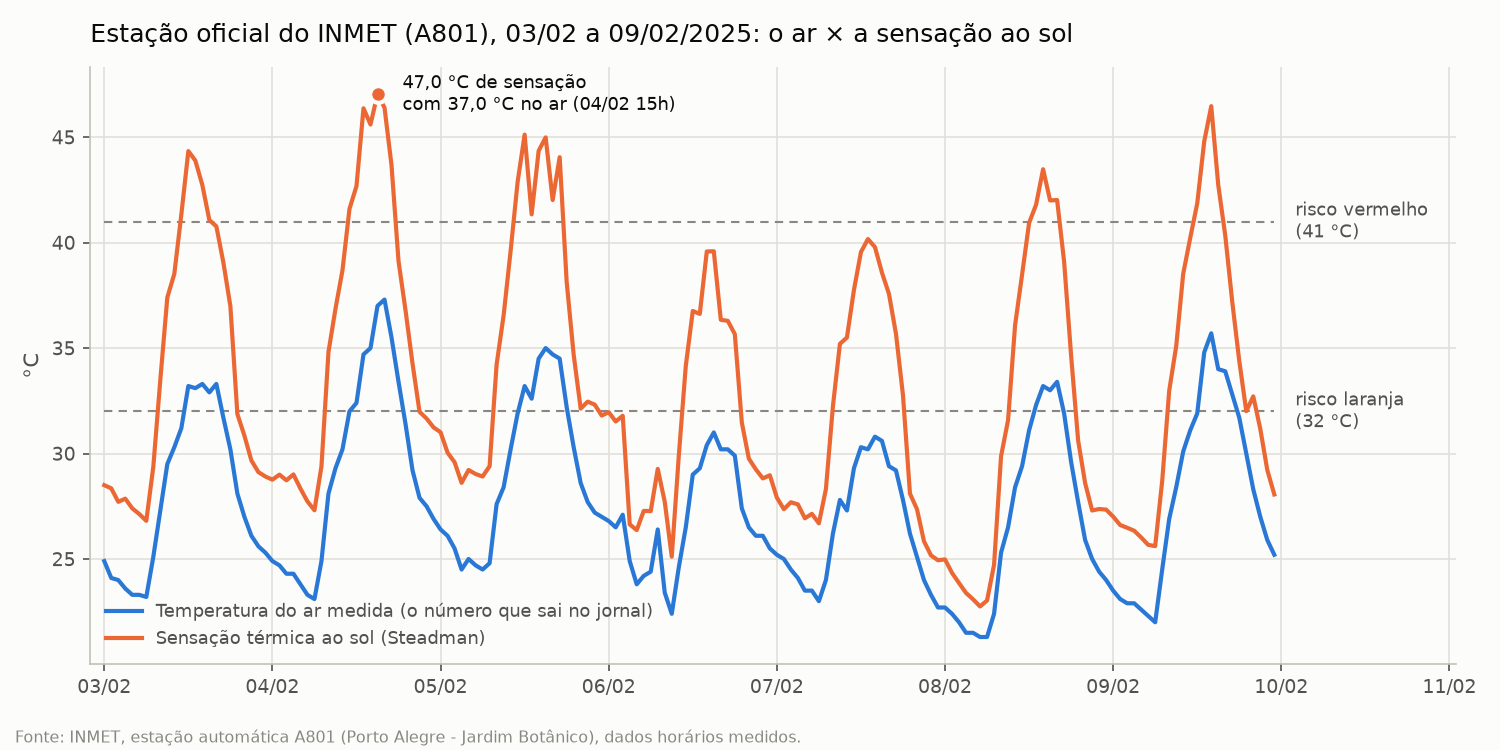
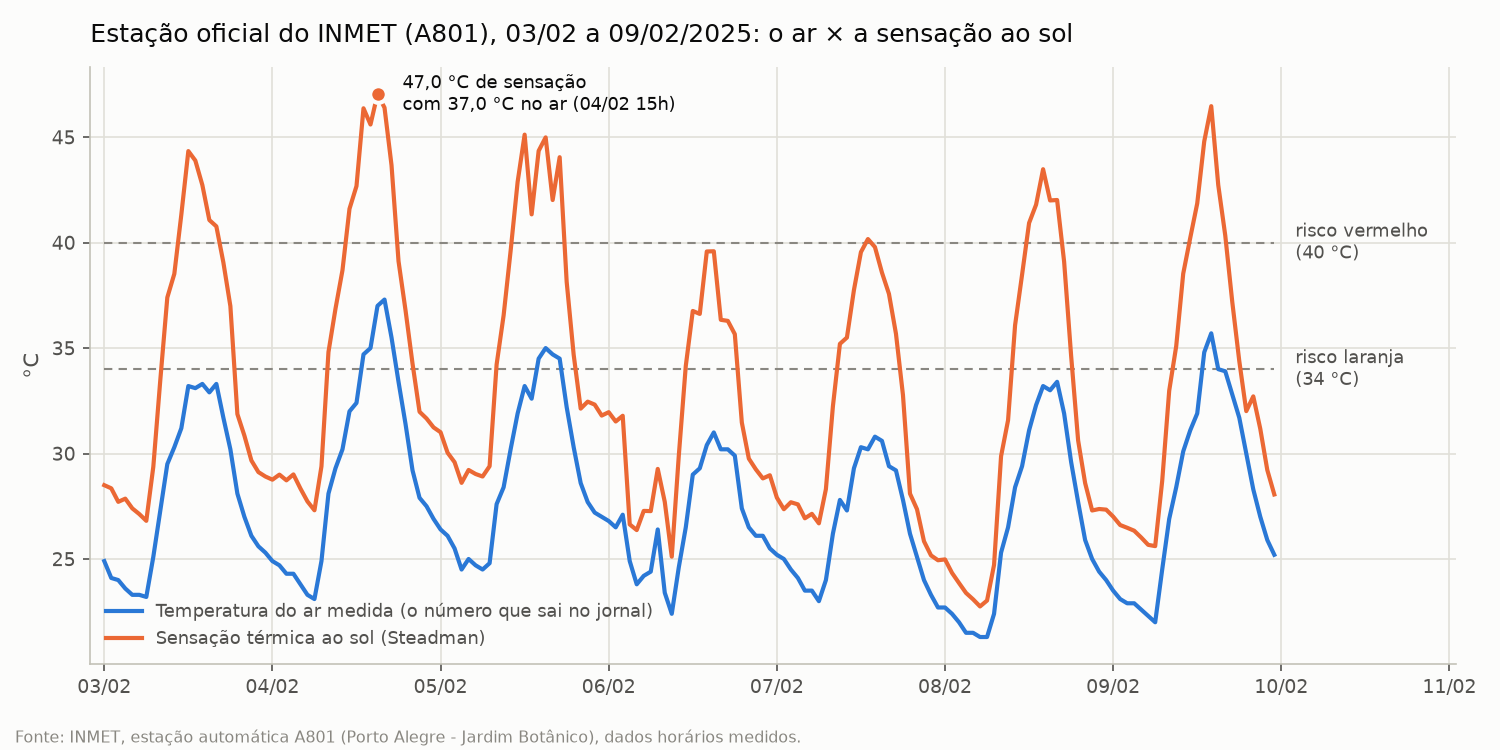
feat(python): use Porto Alegre's 5-level heat scale
- Mirror the station thresholds (27/34/40/52 °C) and add the purple level
- Count hours at orange or above with the new 34 °C limit
- Regenerate the INMET week chart with the 34 and 40 °C lines
- Update tests and README (71 h at 34 °C or more in the week)

Changed region(s): [[0.8587, 0.46, 0.9507, 0.5827], [0.8587, 0.276, 0.9507, 0.3373]]

diff --git a/python/sensacao.py b/python/sensacao.py
@@ -12,14 +12,18 @@ dados oficiais são medidos com a mesma régua, e a comparação é justa.
 
 import math
 
-# Limites de risco (°C de sensação), os mesmos do edge/config.h.
-# Categorias do índice de calor da NOAA (regressão das tabelas de Steadman).
+# Limites de risco (°C de sensação), os mesmos do edge/config.h: as 5 faixas
+# da Nota Técnica nº 01/26 da Secretaria Municipal de Saúde de Porto Alegre
+# (< 27 verde | 27-33 amarelo | 34-39 laranja | 40-51 vermelho | > 51 roxo),
+# uma adaptação das categorias do índice de calor da NOAA. As faixas são de
+# números inteiros, então cada cor COMEÇA em 27, 34, 40 e 52.
 LIMITE_AMARELO = 27.0
-LIMITE_LARANJA = 32.0
-LIMITE_VERMELHO = 41.0
+LIMITE_LARANJA = 34.0
+LIMITE_VERMELHO = 40.0
+LIMITE_ROXO = 52.0
 LIMITE_FRIO = 9.0  # abaixo disso, só um aviso de FRIO (escala UTCI)
 
-NIVEIS = ["VERDE", "AMARELO", "LARANJA", "VERMELHO"]
+NIVEIS = ["VERDE", "AMARELO", "LARANJA", "VERMELHO", "ROXO"]
 
 
 def pressao_vapor(t: float, ur: float) -> float:
@@ -58,10 +62,12 @@ def radiacao_de_global(w_m2: float) -> float:
 
 
 def nivel_de_risco(ta: float) -> int:
-    """0 VERDE, 1 AMARELO, 2 LARANJA, 3 VERMELHO (sem histerese).
+    """0 VERDE, 1 AMARELO, 2 LARANJA, 3 VERMELHO, 4 ROXO (sem histerese).
 
     É o mesmo número que a estação manda no field6 do ThingSpeak.
     """
+    if ta >= LIMITE_ROXO:
+        return 4
     if ta >= LIMITE_VERMELHO:
         return 3
     if ta >= LIMITE_LARANJA:

diff --git a/python/oficial.py b/python/oficial.py
@@ -23,7 +23,7 @@ from pathlib import Path
 
 import pandas as pd
 
-from sensacao import nivel_de_risco, radiacao_de_global, temperatura_aparente
+from sensacao import LIMITE_LARANJA, nivel_de_risco, radiacao_de_global, temperatura_aparente
 
 PASTA_DADOS = Path(__file__).parent / "dados"
 ARQUIVO_INMET = PASTA_DADOS / "inmet_A801_2025.csv"
@@ -96,7 +96,7 @@ def main() -> None:
     print(f"INMET A801, {len(df)} horas com medida, de {args.inicio} a {args.fim}")
     print(f"Maior temperatura do ar medida: {df['temp'].max():.1f} °C")
     print(f"Maior sensação ao sol (mesma régua da estação): {pico['ta_sol']:.1f} °C em {pico['hora']:%d/%m %Hh}")
-    print(f"Horas com sensação ao sol >= 32 °C: {(df['ta_sol'] >= 32).sum()}")
+    print(f"Horas com sensação ao sol >= {LIMITE_LARANJA:.0f} °C (laranja ou mais): {(df['ta_sol'] >= LIMITE_LARANJA).sum()}")
 
 
 if __name__ == "__main__":

diff --git a/python/test_sensacao.py b/python/test_sensacao.py
@@ -27,4 +27,6 @@ def test_sol_do_ldr():
 
 
 def test_niveis_de_risco():
-    assert [nivel_de_risco(t) for t in (26.9, 27.0, 32.0, 41.0, 58.0, -5.0)] == [0, 1, 2, 3, 3, 0]
+    # Faixas da nota técnica da SMS de POA: 33,9 ainda é amarelo, 51,9 ainda é vermelho
+    casos = (26.9, 27.0, 33.9, 34.0, 39.9, 40.0, 51.9, 52.0, 58.0, -5.0)
+    assert [nivel_de_risco(t) for t in casos] == [0, 1, 1, 2, 2, 3, 3, 4, 4, 0]

diff --git a/python/README.md b/python/README.md
@@ -64,7 +64,7 @@ A semana inclui o dia 04/02/2025, quando o InGá mediu **61 °C no piso de concr
 
 - A estação oficial **mediu no máximo 37,3 °C no ar**.
 - Com o sol que ela mesma mediu, a **sensação ao sol chegou a 47,0 °C** (04/02, às 15h).
-- Foram **80 horas** na semana com sensação ao sol de 32 °C ou mais (risco laranja ou vermelho).
+- Foram **71 horas** na semana com sensação ao sol de 34 °C ou mais (risco laranja ou acima), e **32 horas** com 40 °C ou mais (vermelho). Nenhuma hora chegou ao roxo (52 °C).
 
 ![O ar e a sensação ao sol na estação do INMET](graficos/inmet_semana.png)
 
@@ -100,7 +100,7 @@ Passagens do Landsat sem nuvens (menos de 2% na cena) nos verões de 2024/25 e 2
 - **INMET**, Banco de Dados Meteorológicos, dados históricos de 2025, estação automática A801 (Porto Alegre - Jardim Botânico): [portal.inmet.gov.br/dadoshistoricos](https://portal.inmet.gov.br/dadoshistoricos). O arquivo da estação está em `dados/inmet_A801_2025.csv`, sem mudanças.
 - **Landsat 8 e 9**, Coleção 2, Nível 2, temperatura da superfície (NASA/USGS), e **Sentinel-2** Nível 2A (ESA/Copernicus), via [Microsoft Planetary Computer](https://planetarycomputer.microsoft.com/).
 - **OpenStreetMap** (© colaboradores do OpenStreetMap, licença ODbL), pelo serviço Nominatim: as áreas dos 4 locais.
-- **Fórmula de Steadman** (Temperatura Aparente com vento e radiação, 1994), a mesma usada pelo serviço de meteorologia da Austrália. **Limites de risco** (27, 32 e 41 °C): categorias do índice de calor da NOAA.
+- **Fórmula de Steadman** (Temperatura Aparente com vento e radiação, 1994), a mesma usada pelo serviço de meteorologia da Austrália. **Limites de risco** (27, 34, 40 e 52 °C): as 5 faixas da [Nota Técnica nº 01/26 da Secretaria Municipal de Saúde de Porto Alegre](https://prefeitura.poa.br/sites/default/files/usu_doc/hotsites/sms/vigilancia-em-saude/NT%201_26_Calor%20extremo.pdf) (atualizada em 04/02/2026), uma adaptação das categorias do índice de calor da NOAA. A nota mede na sombra; aqui a sensação inclui o sol, então a régua fica mais rigorosa quando bate sol.
 - **Medição do Parque Harmonia:** InGá, divulgada pelo Sul21 em 05/02/2025 (temperatura de superfície, medição pontual de uma ONG).
 
 Nenhum dado pessoal é usado.
